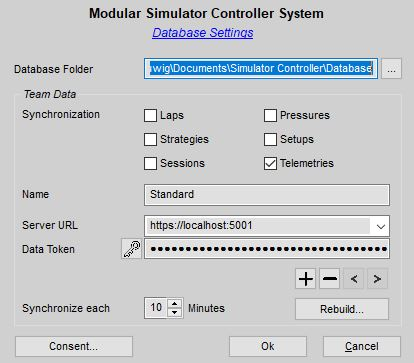
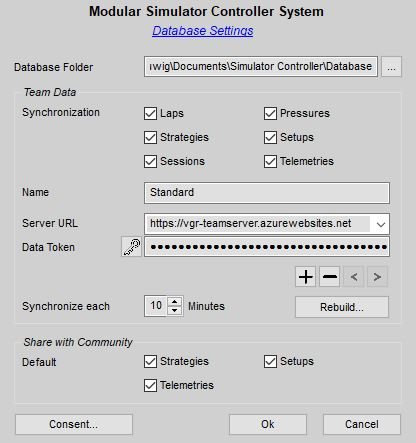
Default for community sharing

diff --git a/README.md b/README.md
@@ -49,7 +49,7 @@ Please read the [Release Notes](https://github.com/SeriousOldMan/Simulator-Contr
 
 #### Latest development build
 
-[6.6.7.0-dev](https://fileshare.impresion3d.pro/filebrowser/api/public/dl/QTXOzBy5/Releases/Simulator%20Controller%206.6.7.0-dev.zip) (Early build for 6.6.7. Changes: Support for Hello/Hallo in activation phrase, Increased stability of MoTeC importer, New generic CSV telemetry importer.)
+[6.6.7.0-dev](https://fileshare.impresion3d.pro/filebrowser/api/public/dl/QTXOzBy5/Releases/Simulator%20Controller%206.6.7.0-dev.zip) (Early build for 6.6.7. Changes: Support for Hello/Hallo in activation phrase, Increased stability of MoTeC importer, New generic CSV telemetry importer, Default for community sharing.)
 
 Please read the [Release Notes](https://github.com/SeriousOldMan/Simulator-Controller/wiki/Release-Notes#6670) and - sometimes even more important - the release specific [Update Notes](https://github.com/SeriousOldMan/Simulator-Controller/wiki/Update-Notes#release-667) of this version and all the versions you might have skipped, before installing and using this version.
 

diff --git a/Docs/Session Database.md b/Docs/Session Database.md
@@ -358,6 +358,8 @@ Please note, that the initial synchronization might take quite a while (up to a 
 
 Final note: Once you have changed the database location or the synchronization settings, you will be prompted to restart all applications of Simulator Controller.
 
+In the second group, you can define the default choice for community sharing for the different objects in the session database. This default values is used, whenever a new object (a strategy, for example) is created. Whether the object will be really shared in the end, also depends on your consent (see below).
+
 With the "Consent..." button in the lower left corner of the dialog, you can open the [consent dialog](https://github.com/SeriousOldMan/Simulator-Controller/wiki/Session-Database#sharing-data-with-the-community), if you want to review and possibly change your community settings.
 
 ##### Data privacy

diff --git a/Docs/Releases.md b/Docs/Releases.md
@@ -35,6 +35,7 @@
 
   - Using "Hello instead of "Hey" is now supported in Assistant activation phrases in English.
   - Using "Hallo" instead of "Hi" is now supported in Assistant activation phrases in German.
+  - It is now possible to define global default choices for community sharing in the settings of the "Session Database" for the different object types. This value is used whenever a new object (a strategy, for example) is created in the session database. If this default is not set, the corresponding choice from the consent will be used as default sharing setting.
   - A generic CSV importer has been added to the "Session Database". It allow you to import telemetry data from any location. See the [updated documentation](https://github.com/SeriousOldMan/Simulator-Controller/wiki/Session-Database#importing-telemetry-data) from more information.
 
 # Release history
